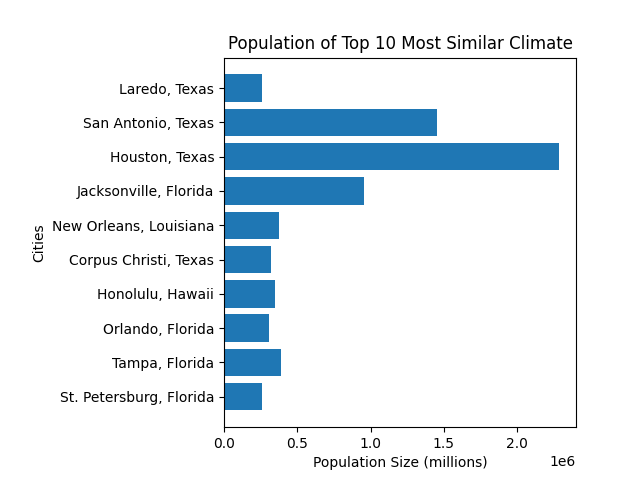
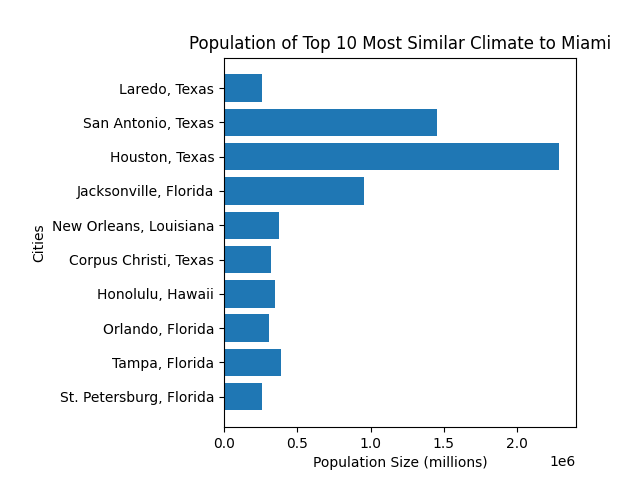
added population graph

Changed region(s): [[0.2812, 0.0625, 0.9688, 0.125]]

diff --git a/CityClimates.py b/CityClimates.py
@@ -57,7 +57,7 @@ def calculateRankings(cur, chosen_city):
     plt.gcf().subplots_adjust(left=0.35)
     plt.ylabel("Cities")
     plt.xlabel(f"Population Size (millions)")
-    plt.title(f"Population of Top 10 Most Similar Climate")
+    plt.title(f"Population of Top 10 Most Similar Climate to {chosen_city}")
     plt.savefig("populationsTopTen.png")
 
     return cosine_similarities
